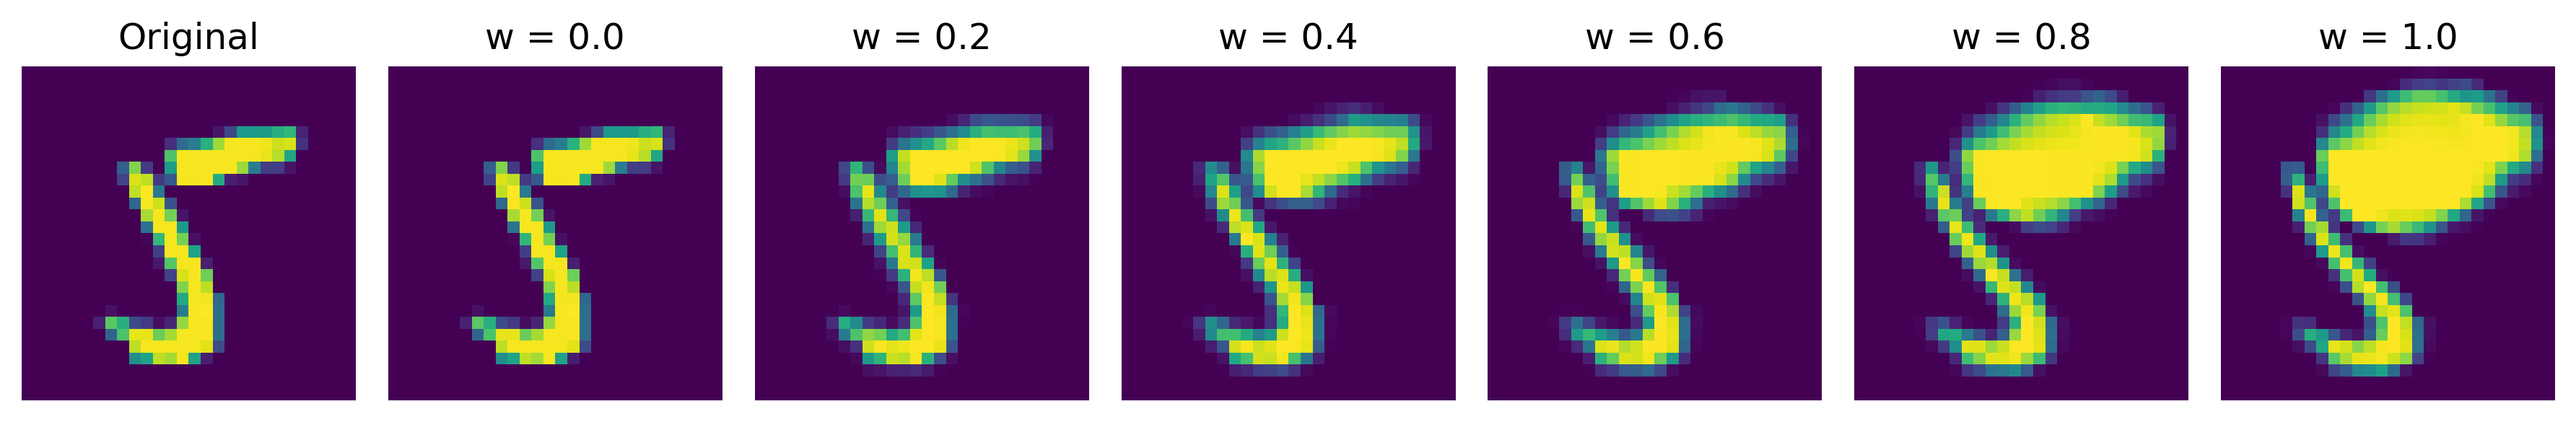
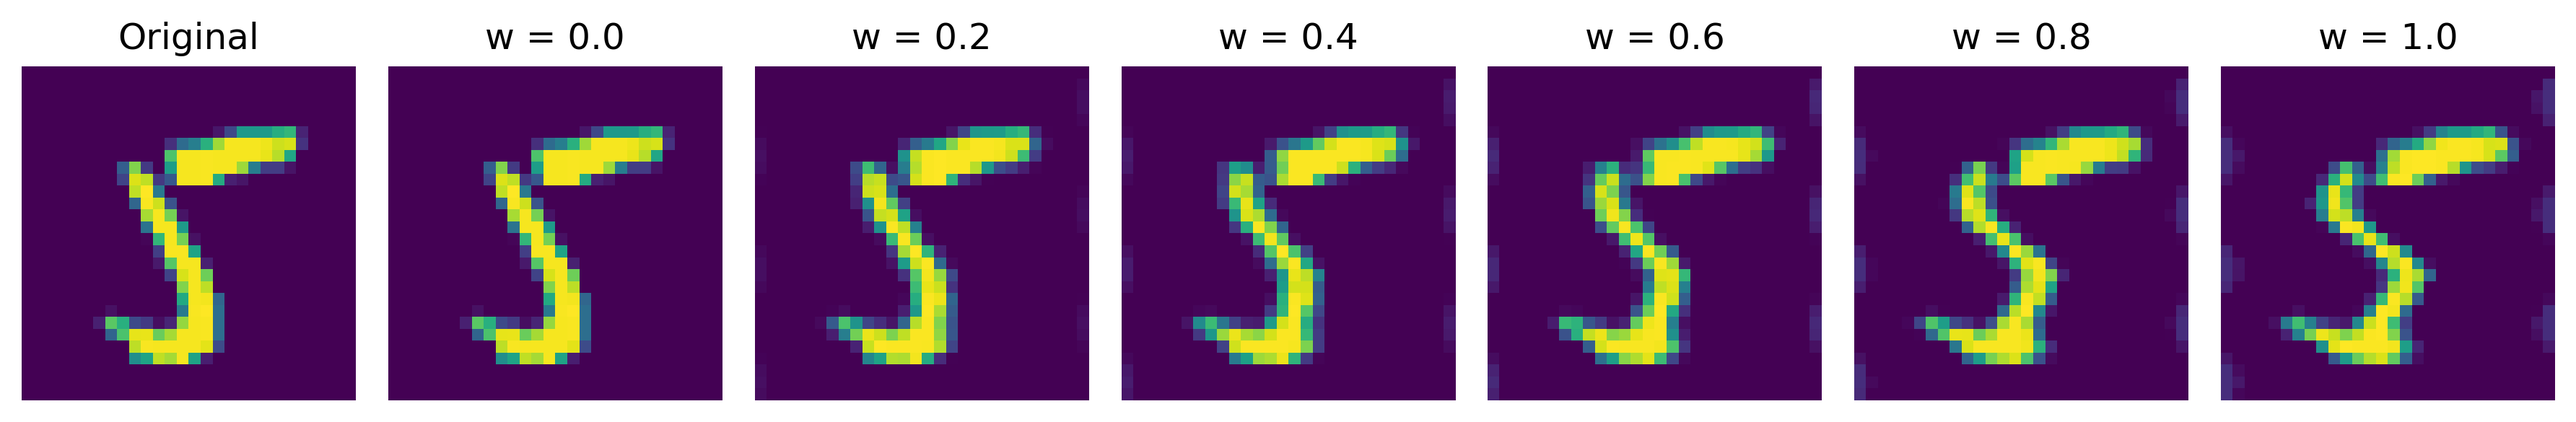
add spec deforms

diff --git a/specifications/spec_deform.py b/specifications/spec_deform.py
@@ -1,0 +1,125 @@
+from joblib import Parallel, delayed
+from tqdm import tqdm
+import warnings
+import torch
+import os
+import gc
+
+warnings.filterwarnings("ignore")
+warnings.filterwarnings("ignore", category=DeprecationWarning)
+warnings.filterwarnings("ignore", message=".*TorchScript-based ONNX export.*")
+
+from perturbations.deform_layer import DeformationPerturbationLayer
+from utils import create_vnnlib_str, get_valid_data
+       
+def _process_deform_single_spec(args, model, spec_dir, displacement_type, w, x, y, logit, count, seed):
+    max_displacement_dict = {
+        'sine_ripple': 1.5,
+        'expansion': 0.3,
+        'localized_bulge': 1.5,
+    }
+    try:
+        base_name = f"{count}_{seed}_{args.task}_{args.model}_{displacement_type}_{w}"
+        onnx_name = os.path.join('onnx', f"{base_name}.onnx")
+        
+        x_lb = torch.tensor([[0.0]])
+        x_ub = torch.tensor([[w]])  
+        specs = create_vnnlib_str(
+            data_lb=x_lb, 
+            data_ub=x_ub, 
+            prediction=logit,
+        )
+        
+        perturbed_layer = DeformationPerturbationLayer(
+            image=x.squeeze(0), 
+            displacement_type=displacement_type, 
+            max_displacement=max_displacement_dict[displacement_type],
+        ).cpu()
+        perturbed_net = torch.nn.Sequential(perturbed_layer, model).cpu()
+        perturbed_net.eval()
+
+        with warnings.catch_warnings():
+            warnings.simplefilter("ignore")
+            torch.onnx.export(
+                perturbed_net,
+                x_lb,
+                os.path.join(spec_dir, onnx_name),
+                opset_version=12,
+                input_names=["input"],
+                output_names=["output"],
+                dynamic_axes={
+                    'input': {0: 'batch_size'},
+                    'output': {0: 'batch_size'},
+                },
+                verbose=False
+            )
+        
+        del x_lb, x_ub, perturbed_layer, perturbed_net
+        gc.collect()
+        
+        res = []
+        for i, spec in enumerate(specs):
+            spec_name = os.path.join('vnnlib', f"{base_name}_{i}.vnnlib")
+            with open(os.path.join(spec_dir, spec_name), 'w') as f:
+                print(spec, file=f)
+            res.append(f'{onnx_name},{spec_name},{args.timeout}')
+        
+        return {'success': True, 'result': res, 'task': (args, model, spec_dir, displacement_type, w, x, y, logit, count, seed)}
+    except Exception as e:
+        import traceback; traceback.print_exc()
+        print(f"Failed to process {count}th spec")
+        return {'success': False, 'task': (args, model, spec_dir, displacement_type, w, x, y, logit, count, seed)}
+            
+             
+def generate_deform_spec(args, model, test_loader, label_to_index, device):
+
+    print(f'\n{"="*80}')
+    print(f"Starting {args.task} {args.model} Deform specs generation...")
+    print(f'{"="*80}\n')
+    
+    valid_data = get_valid_data(args, model, test_loader, label_to_index, device)
+    
+    spec_dir = os.path.join(args.spec_dir, args.task, f'deform_{args.model}')
+    os.makedirs(os.path.join(spec_dir, 'vnnlib'), exist_ok=True)
+    os.makedirs(os.path.join(spec_dir, 'onnx'), exist_ok=True)
+    os.makedirs(spec_dir, exist_ok=True)
+    
+    tasks = []
+    count = 0
+    
+    for displacement_type in ['sine_ripple', 'expansion', 'localized_bulge']:
+        for w in [0.2, 0.4, 0.6, 0.8]:
+            for x, y, logit in valid_data:
+                tasks.append((args, model, spec_dir, displacement_type, w, x, y, logit, count, args.seed))
+                count += 1
+    
+    results = Parallel(n_jobs=os.cpu_count() // 2)(
+        delayed(_process_deform_single_spec)(*task) for task in tqdm(tasks)
+    )
+    # results = []
+    # for task in tqdm(tasks):
+    #     result = _process_rotate_single_spec(*task)
+    #     results.append(result)
+    
+    successful_results = []
+    failed_results = []
+    for r in results:
+        if r['success']:
+            successful_results.extend(r['result'])
+        else:
+            failed_results.append(r['task'])
+    
+    for failed_result in tqdm(failed_results):
+        retry_result = _process_deform_single_spec(*failed_result['task'])
+        if retry_result['success']:
+            successful_results.extend(retry_result['result'])
+    
+    with open(os.path.join(spec_dir, f'instances.csv'), 'w') as f, open(os.path.join(spec_dir, f'command.sh'), 'w') as f2:
+        for result in successful_results:
+            print(result, file=f)
+            print(f'python3 main.py --net {os.path.abspath(spec_dir)}/{result.split(",")[0]} --spec {os.path.abspath(spec_dir)}/{result.split(",")[1]} --timeout {args.timeout}', file=f2)
+    
+    print(f"[!] Deform: {len(successful_results)} specs")
+    gc.collect()
+    
+    

diff --git a/gen_spec.py b/gen_spec.py
@@ -12,6 +12,7 @@ from utils import set_seed, get_device, load_checkpoint, evaluate_model, get_mod
 from specifications.spec_time_invariant import generate_time_invariant_spec
 from specifications.spec_time_varying import generate_time_varying_spec
 from specifications.spec_rotate import generate_rotate_spec
+from specifications.spec_deform import generate_deform_spec
 
 def parse_args():
     p = argparse.ArgumentParser()
@@ -73,6 +74,7 @@ def main():
     
     if args.task == "geometric":
         generate_rotate_spec(args, model, test_loader, checkpoint["label_to_index"], device)
+        generate_deform_spec(args, model, test_loader, checkpoint["label_to_index"], device)
     else:
         generate_time_invariant_spec(args, model, test_loader, checkpoint["label_to_index"], device)
         generate_time_varying_spec(args, model, test_loader, checkpoint["label_to_index"], device)

diff --git a/specifications/spec_rotate.py b/specifications/spec_rotate.py
@@ -73,7 +73,7 @@ def generate_rotate_spec(args, model, test_loader, label_to_index, device):
     
     valid_data = get_valid_data(args, model, test_loader, label_to_index, device)
     
-    spec_dir = os.path.join(args.spec_dir, f'rotate', f'{args.task}_{args.model}_{args.n_channel}')
+    spec_dir = os.path.join(args.spec_dir, args.task, f'rotate_{args.model}')
     os.makedirs(os.path.join(spec_dir, 'vnnlib'), exist_ok=True)
     os.makedirs(os.path.join(spec_dir, 'onnx'), exist_ok=True)
     os.makedirs(spec_dir, exist_ok=True)

diff --git a/perturbations/deform_layer.py b/perturbations/deform_layer.py
@@ -132,7 +132,7 @@ if __name__ == "__main__":
         break
         
     # Test the layer with the new "localized_bulge" type
-    layer = DeformationPerturbationLayer(img_tensor, displacement_type='localized_bulge', max_displacement=1.0, center=(16.0, 7.0))
+    layer = DeformationPerturbationLayer(img_tensor, displacement_type='sine_ripple', max_displacement=1.5)
     
     # Define an interval of scalar inputs w
     w_values = torch.tensor([[0.0], [0.2], [0.4], [0.6], [0.8], [1.0]]) # [B, 1]

diff --git a/TODO.md b/TODO.md
@@ -1,0 +1,1 @@
+- [ ] Expansion with large `max_displacement` (2.0) and `w` (1.0) flips the image instead of expanding
